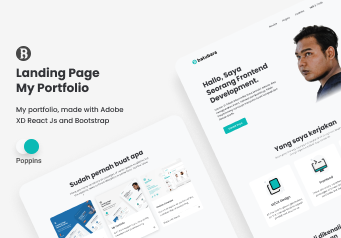
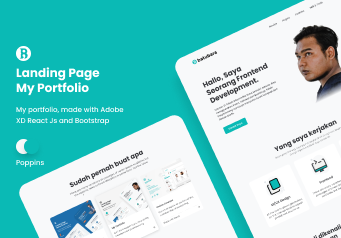
Update some title

diff --git a/src/App.css b/src/App.css
@@ -141,15 +141,15 @@ body {
 /* ===ALL TITLE STYLE=== */
 .main-title {
   color: var(--main-dark);
-  font-size: 34px;
+  font-size: 45px;
   font-weight: 700;
-  line-height: 2.5rem;
+  line-height: 3rem;
 }
 
 .second-title {
   color: var(--main-dark);
-  font-size: 24px;
-  font-weight: 600;
+  font-size: 35px;
+  font-weight: 700;
 }
 
 .subtitle {
@@ -170,38 +170,17 @@ body {
   font-weight: 600;
 }
 
-@media (min-width: 1024px) {
-  .main-title {
-    font-size: 55px;
-    line-height: 3.8rem;
-  }
-
-  .second-title {
-    font-size: 36px;
-    font-weight: 600;
-  }
-
-  .third-title {
-    font-size: 32px;
-    font-weight: 600;
-  }
-
-  .description {
-    font-size: 16px;
-  }
-}
-
 /* ====ALL BUTTON STYLE=== */
 .btn.btn-main-button,
 .btn.btn-second-button {
   display: inline-block;
   font-weight: 500;
   font-size: 15px;
-  padding: 0.7rem 1.6rem;
-  cursor: pointer;
+  padding: 0.8rem 1.8rem;
+  border-radius: 8px;
   transition: 0.4s ease-in-out 0s;
-  box-shadow: rgba(149, 157, 165, 0.2) 0px 8px 24px;
-  -webkit-box-shadow: rgba(149, 157, 165, 0.2) 0px 8px 24px;
+  /* box-shadow: rgba(149, 157, 165, 0.2) 0px 8px 24px;
+  -webkit-box-shadow: rgba(149, 157, 165, 0.2) 0px 8px 24px; */
 }
 
 .btn.btn-main-button:active,
@@ -221,9 +200,9 @@ body {
 }
 
 .btn.btn-second-button {
-  background-color: var(--main-light);
-  border-color: var(--main-light);
-  color: var(--main-blue);
+  /* background-color: var(--main-light); */
+  border-color: var(--main-dark);
+  color: var(--main-dark);
 }
 
 .btn.btn-main-button:hover,
@@ -249,4 +228,29 @@ body {
 
 .html {
   scroll-behavior: smooth;
+}
+
+@media (min-width: 1024px) {
+  .main-title {
+    font-size: 60px;
+    line-height: 3.8rem;
+  }
+
+  .second-title {
+    font-size: 36px;
+    font-weight: 600;
+  }
+
+  .third-title {
+    font-size: 32px;
+    font-weight: 600;
+  }
+
+  .description {
+    font-size: 16px;
+  }
+
+  .btn.btn-main-button {
+    padding: 0.7rem 1.7rem;
+  }
 }

diff --git a/src/components/Hero.js b/src/components/Hero.js
@@ -9,22 +9,26 @@ export default function Hero() {
       <Container>
         <Row className="hero d-block d-md-flex justify-content-between">
           <Col md={6} className="hero-content">
+            <p className="description">Halo, nama saya</p>
             <h1 className="main-title">
-              Hallo, Saya Seorang Frontend Developer
+              Alimartondi
+              <br />
+              Batubara
             </h1>
-            <p className="description mt-4">
-              Lulusan Teknik Informatika, bisa React, Bootstrap dan Tailwindcss.
-              Selain Programming saya juga menyukai Desain UI-UX, Fotografi dan
-              Desain Grafis.
+            <p className="description mt-3">
+              Lulusan Teknik Informatika, bisa menggunakan React, Tailwindcss
+              dan bootsrap. Selain Programming saya juga menyukai Desain UI-UX,
+              Fotografi dan Desain Grafis.
             </p>
-
-            <Button
-              variant="main-button"
-              href="mailto:alimartondi88@gmail.com"
-              className="main-button mt-4"
-            >
-              Hubungi Saya
-            </Button>
+            <div className="hero-content__cta d-flex justify-content-between">
+              <Button
+                variant="main-button"
+                href="mailto:alimartondi88@gmail.com"
+                className="mt-5"
+              >
+                Hubungi Saya
+              </Button>
+            </div>
           </Col>
           <Col
             md={6}

diff --git a/src/components/Project.js b/src/components/Project.js
@@ -13,9 +13,7 @@ export default function Project() {
             md={6}
             className="text-left pr-md-5 order-2 order-md-1 mt-5 mt-md-0"
           >
-            <h2 className="second-title">
-              Buah dari pertama kali kenalan dengan React
-            </h2>
+            <h2 className="second-title">Pertama kali kenal React</h2>
             <h5 className="description mt-4 mb-5">
               Pertama kali dikenalin React oleh teman, membuat Website Landing
               Page untuk Infradigital Foundation. Dapat tugas untuk
@@ -23,7 +21,7 @@ export default function Project() {
               React dan Bootstrap.
             </h5>
             <Button
-              variant="main-button"
+              variant="second-button"
               href="https://foundation.infradigital.io/"
               target="blank"
             >

diff --git a/src/components/Service.js b/src/components/Service.js
@@ -10,10 +10,9 @@ export default function Service() {
       <Container className="px-0">
         <Row className="justify-content-center">
           <Col lg={6} className="text-center px-3">
-            <h2 className="second-title">Yang saya kerjakan</h2>
+            <h2 className="second-title">Kemampuan</h2>
             <h5 className="description">
-              Selain programming, saya juga menyukai UI-UX Design dan Graphic
-              Design seperti membuat logo, poster dll.
+              Selain programming, saya juga menyukai UI-UX & Graphic Design
             </h5>
           </Col>
         </Row>
@@ -60,7 +59,7 @@ const contents = [
   },
   {
     image: Design,
-    title: "Web Design",
+    title: "Graphic Design",
     description:
       "Untuk melengkapi logo dan banner website menggunakan Illustrator atau CorelDraw",
   },

diff --git a/src/components/Portfolio.js b/src/components/Portfolio.js
@@ -10,10 +10,10 @@ export default function Portfolio() {
       <Container className="px-0">
         <Row>
           <Col lg={7} className="portfolio-intro text-center mx-auto">
-            <h2 className="second-title">Sudah pernah buat apa</h2>
+            <h2 className="second-title">Portofolio</h2>
             <p className="description px-2 px-md-5">
-              Beberapa project website yang sudah dideploy menggunakan layanan
-              gratis dari netlify
+              Beberapa website yang sudah dideploy menggunakan layanan hosting
+              dari netlify
             </p>
           </Col>
         </Row>

diff --git a/src/style/navbar.css b/src/style/navbar.css
@@ -2,13 +2,15 @@
   position: relative;
   z-index: 999;
   padding: 0;
-  height: 55px;
+  height: 60px;
   width: 100%;
   position: fixed;
   background-color: transparent;
   display: flex;
   align-items: center;
   justify-content: space-between;
+  -webkit-transition: all 0.3s;
+  transition: all 0.3s;
 }
 
 .navbar.scrolled {
@@ -45,6 +47,7 @@
   transition: all 0.3s ease;
   opacity: 1;
 }
+
 .nav-items.active .nav-link:hover {
   color: #f0f0f0;
 }

diff --git a/src/style/style.css b/src/style/style.css
@@ -6,7 +6,7 @@
 
 .hero-content {
   max-width: 100%;
-  padding-top: 150px;
+  padding-top: 120px;
 }
 
 .hero-image {
@@ -35,7 +35,7 @@
 .project,
 .tools,
 .contact {
-  margin-top: 55px;
+  margin-top: 75px;
 }
 
 .service-items,
